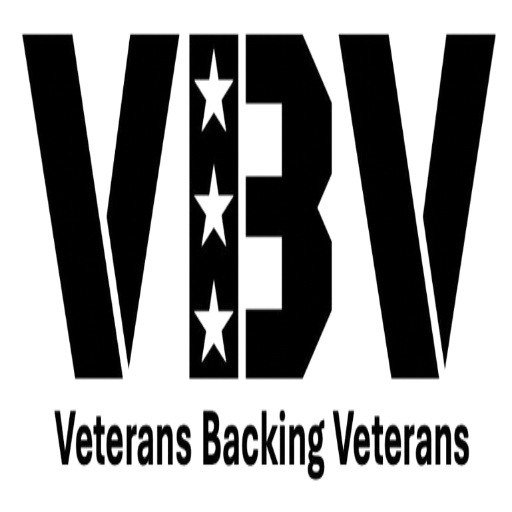
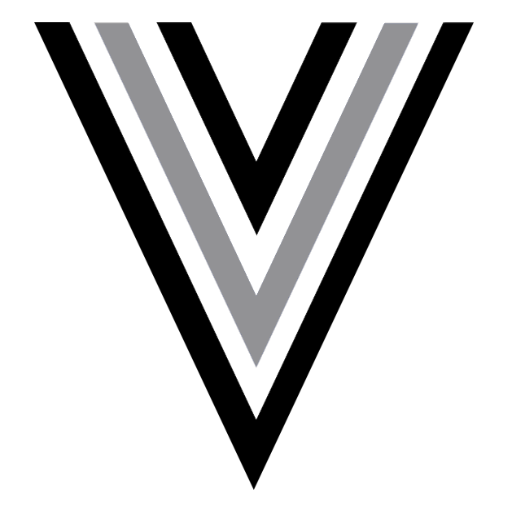
vbv -> vetted

diff --git a/app/page.tsx b/app/page.tsx
@@ -86,7 +86,7 @@ export default function Home() {
           __html: JSON.stringify({
             "@context": "https://schema.org",
             "@type": "Organization",
-            "name": "VBV",
+            "name": "Vetted",
             "alternateName": "VBV - Veterans Backing Veterans",
             "url": "https://versionbravo.com",
             "logo": "https://versionbravo.com/logo.png",
@@ -102,7 +102,7 @@ export default function Home() {
             "contactPoint": {
               "@type": "ContactPoint",
               "contactType": "customer service",
-              "email": "info@vbv.vc"
+              "email": "info@vetted.vc "
             },
             "offers": [
               {
@@ -143,7 +143,7 @@ export default function Home() {
             <div className="flex items-center justify-between">
               <div className="flex items-center">
                 <Image
-                  src="/logo.png"
+                  src="/no-text-logo.png"
                   alt="Version Bravo Logo"
                   width={120}
                   height={120}
@@ -212,7 +212,7 @@ export default function Home() {
                 <div className="px-4">
                   <h2 className="text-2xl font-bold text-black mb-4" style={{ fontFamily: "'Gunplay', sans-serif" }}>Our Mission</h2>
                   <p className="text-base text-gray-700 leading-relaxed">
-                    VBV (Veterans Backing Veterans) is an education, acceleration, and venture capital platform providing end-to-end support to Combat Veteran Founders from the U.S. and Israel. We offer two distinct, sequential programs, Alpha-Bet Entrepreneurship School and our Venture Accelerator, designed to meet veterans exactly where they are on their entrepreneurial journey
+                    Vetted is an education, acceleration, and venture capital platform providing end-to-end support to Combat Veteran Founders from the U.S. and Israel. We offer two distinct, sequential programs, Alpha-Bet Entrepreneurship School and Vetted Accelerator, designed to meet veterans exactly where they are on their entrepreneurial journey
                   </p>
                 </div>
               </div>
@@ -235,7 +235,7 @@ export default function Home() {
                   <section>
                     <h1 className="text-3xl font-bold text-black mb-4" style={{ fontFamily: "'Gunplay', sans-serif" }}>Our Mission</h1>
                     <p className="text-lg text-gray-700 leading-relaxed">
-                      VBV (Veterans Backing Veterans) is an education, acceleration, and venture capital platform providing end-to-end support to Combat Veteran Founders from the U.S. and Israel. We offer two distinct, sequential programs, Alpha-Bet Entrepreneurship School and our Venture Accelerator, designed to meet veterans exactly where they are on their entrepreneurial journey.
+                      Vetted is an education, acceleration, and venture capital platform providing end-to-end support to Combat Veteran Founders from the U.S. and Israel. We offer two distinct, sequential programs, Alpha-Bet Entrepreneurship School and Vetted Accelerator, designed to meet veterans exactly where they are on their entrepreneurial journey.
                     </p>
                   </section>
                 </div>
@@ -268,7 +268,7 @@ export default function Home() {
               <div className="grid grid-cols-1 md:grid-cols-2 gap-6 md:gap-8 md:items-start">
                 {/* Version Bravo Accelerator */}
                 <article ref={acceleratorRef} className="bg-white border border-gray-200 rounded-lg p-4 md:p-6 hover:shadow-lg transition-shadow">
-                  <h3 className="text-lg md:text-xl font-bold text-black mb-2" style={{ fontFamily: "'Gunplay', sans-serif" }}>Venture Accelerator</h3>
+                  <h3 className="text-lg md:text-xl font-bold text-black mb-2" style={{ fontFamily: "'Gunplay', sans-serif" }}>Vetted Accelerator</h3>
                   <p className="text-blue-600 mb-4 font-semibold text-sm md:text-base">For the High-Growth Startup</p>
                   
                   <div className="mb-4 md:mb-6 text-sm text-gray-600">
@@ -341,7 +341,7 @@ export default function Home() {
                 <h4 className="text-black font-bold mb-3 md:mb-4 text-sm md:text-base" style={{ fontFamily: "'Gunplay', sans-serif" }}>PROGRAMS</h4>
                 <div className="text-gray-700 text-sm space-y-2">
                   <div><a href="https://alphabet.vbv.vc" target="_blank" rel="noopener noreferrer" className="hover:text-blue-600 transition-colors">Alpha-Bet Entrepreneurship School</a></div>
-                  <div><button onClick={() => setShowApplicationForm(true)} className="hover:text-blue-600 transition-colors cursor-pointer text-left">Venture Accelerator</button></div>
+                  <div><button onClick={() => setShowApplicationForm(true)} className="hover:text-blue-600 transition-colors cursor-pointer text-left">Vetted Accelerator</button></div>
                 </div>
               </div>
               <div>
@@ -349,14 +349,14 @@ export default function Home() {
                 <div className="text-gray-700 text-sm">
                   <div className="flex items-center gap-2">
                     <i className="fas fa-envelope text-blue-600"></i>
-                    <a href="mailto:info@vbv.vc" className="hover:text-blue-600 transition-colors break-all">info@vbv.vc</a>
+                    <a href="mailto:info@vetted.vc " className="hover:text-blue-600 transition-colors break-all">info@vetted.vc </a>
                   </div>
                 </div>
               </div>
             </div>
             <div className="border-t border-gray-300 mt-6 md:mt-8 pt-4 md:pt-6 text-center">
               <p className="text-gray-600 text-xs md:text-sm" style={{ fontFamily: "'Gunplay', sans-serif" }}>
-                VBV © 2025 | Veterans Backing Veterans
+                Vetted © 2025 | Education | Acceleration | Investment
               </p>
             </div>
           </div>
@@ -404,8 +404,8 @@ export default function Home() {
               <div className="mb-6">
                 <div className="flex flex-col sm:flex-row items-center justify-center gap-3 bg-gray-50 p-3 md:p-4 rounded-lg">
                   <i className="fas fa-envelope text-blue-600 text-sm"></i>
-                  <a href="mailto:info@vbv.vc" className="text-blue-600 hover:text-blue-700 font-semibold transition-colors text-sm md:text-base break-all">
-                    info@vbv.vc
+                  <a href="mailto:info@vetted.vc " className="text-blue-600 hover:text-blue-700 font-semibold transition-colors text-sm md:text-base break-all">
+                    info@vetted.vc 
                   </a>
                 </div>
               </div>

diff --git a/app/layout.tsx b/app/layout.tsx
@@ -14,8 +14,8 @@ const geistMono = Geist_Mono({
 
 export const metadata: Metadata = {
   metadataBase: new URL('https://versionbravo.com'),
-  title: "VBV - Frontline to Founders | Combat Veteran Entrepreneurship Platform",
-  description: "VBV provides education, acceleration, and venture capital support to Combat Veteran Founders from the U.S. and Israel. Join Alpha-Bet School or apply for our exclusive accelerator program.",
+  title: "Vetted - Education | Acceleration | Investment",
+  description: "Vetted provides education, acceleration, and venture capital support to Combat Veteran Founders from the U.S. and Israel. Join Alpha-Bet School or apply for our exclusive accelerator program.",
   keywords: [
     "combat veterans",
     "entrepreneurship",
@@ -32,7 +32,7 @@ export const metadata: Metadata = {
   creator: "Version Bravo",
   publisher: "Version Bravo",
   openGraph: {
-    title: "Version Bravo - Frontline to Founders",
+    title: "Vetted",
     description: "Combat Veteran Entrepreneurship Platform - From Alpha-Bet School to Version Bravo Accelerator",
     url: "https://versionbravo.com",
     siteName: "Version Bravo",
@@ -49,7 +49,7 @@ export const metadata: Metadata = {
   },
   twitter: {
     card: "summary_large_image",
-    title: "Version Bravo - Frontline to Founders",
+    title: "Vetted",
     description: "Combat Veteran Entrepreneurship Platform - From Alpha-Bet School to Version Bravo Accelerator",
     images: ["/hero.png"],
   },
@@ -77,6 +77,12 @@ export default function RootLayout({
   return (
     <html lang="en">
       <head>
+        {/* Favicons */}
+        <link rel="icon" href="/favicon.ico" sizes="32x32" />
+        <link rel="icon" href="/favicon-16x16.png" type="image/png" sizes="16x16" />
+        <link rel="icon" href="/favicon-32x32.png" type="image/png" sizes="32x32" />
+        <link rel="apple-touch-icon" href="/apple-touch-icon.png" />
+        
         {/* Web App Meta */}
         <link rel="manifest" href="/site.webmanifest" />
         <meta name="theme-color" content="#2563eb" />
